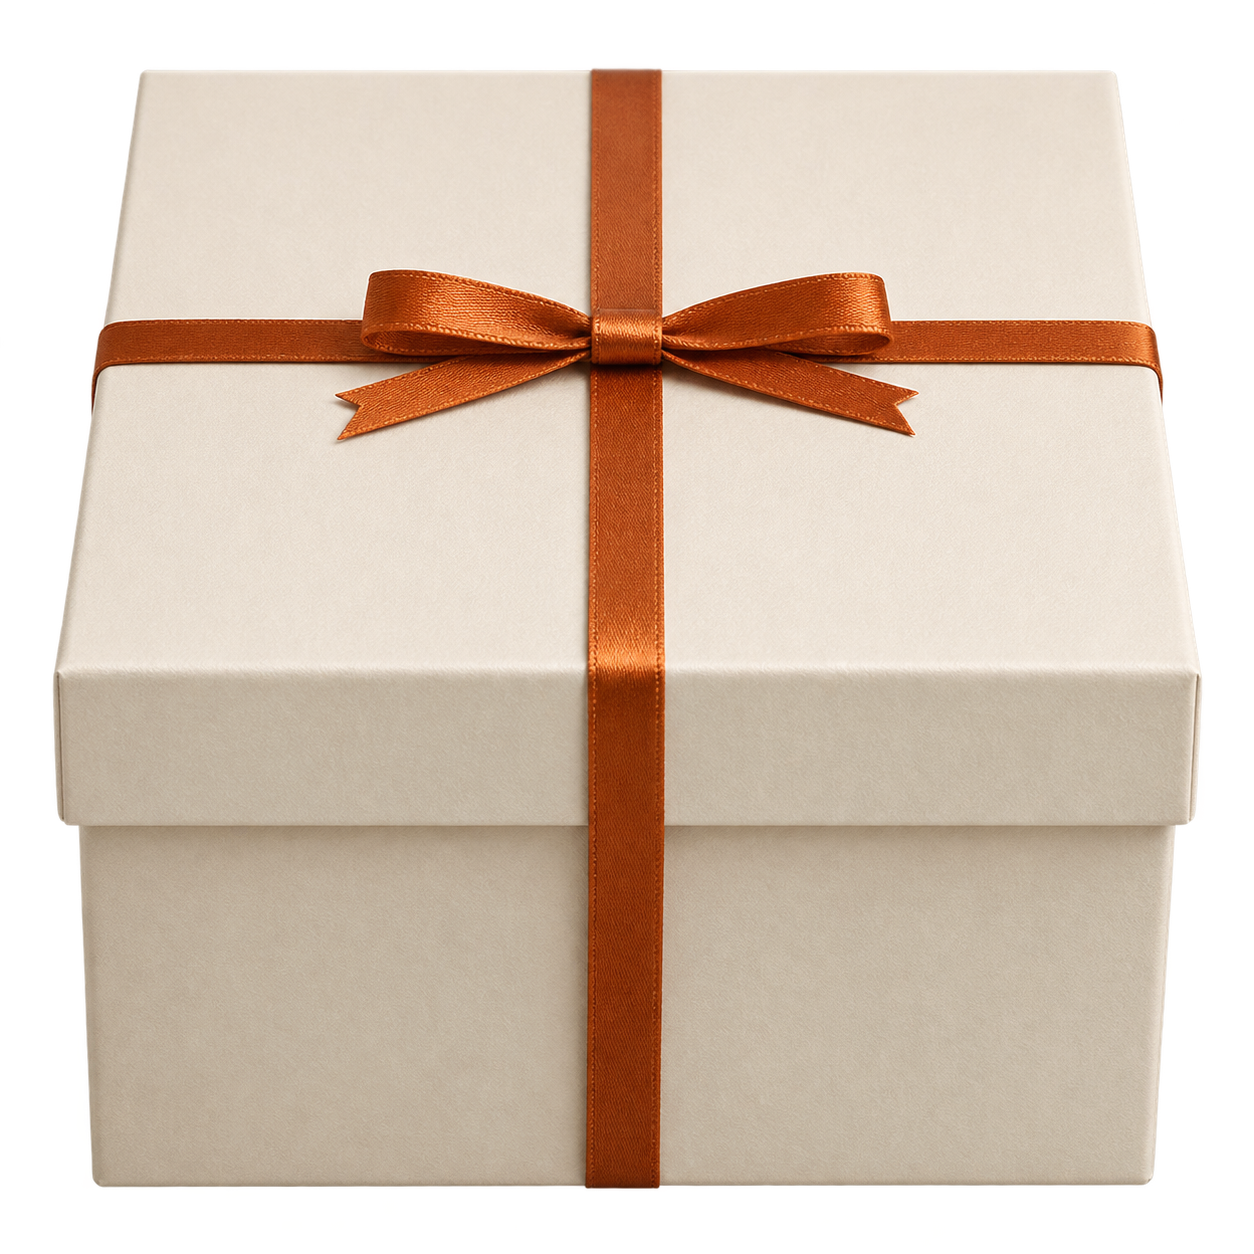
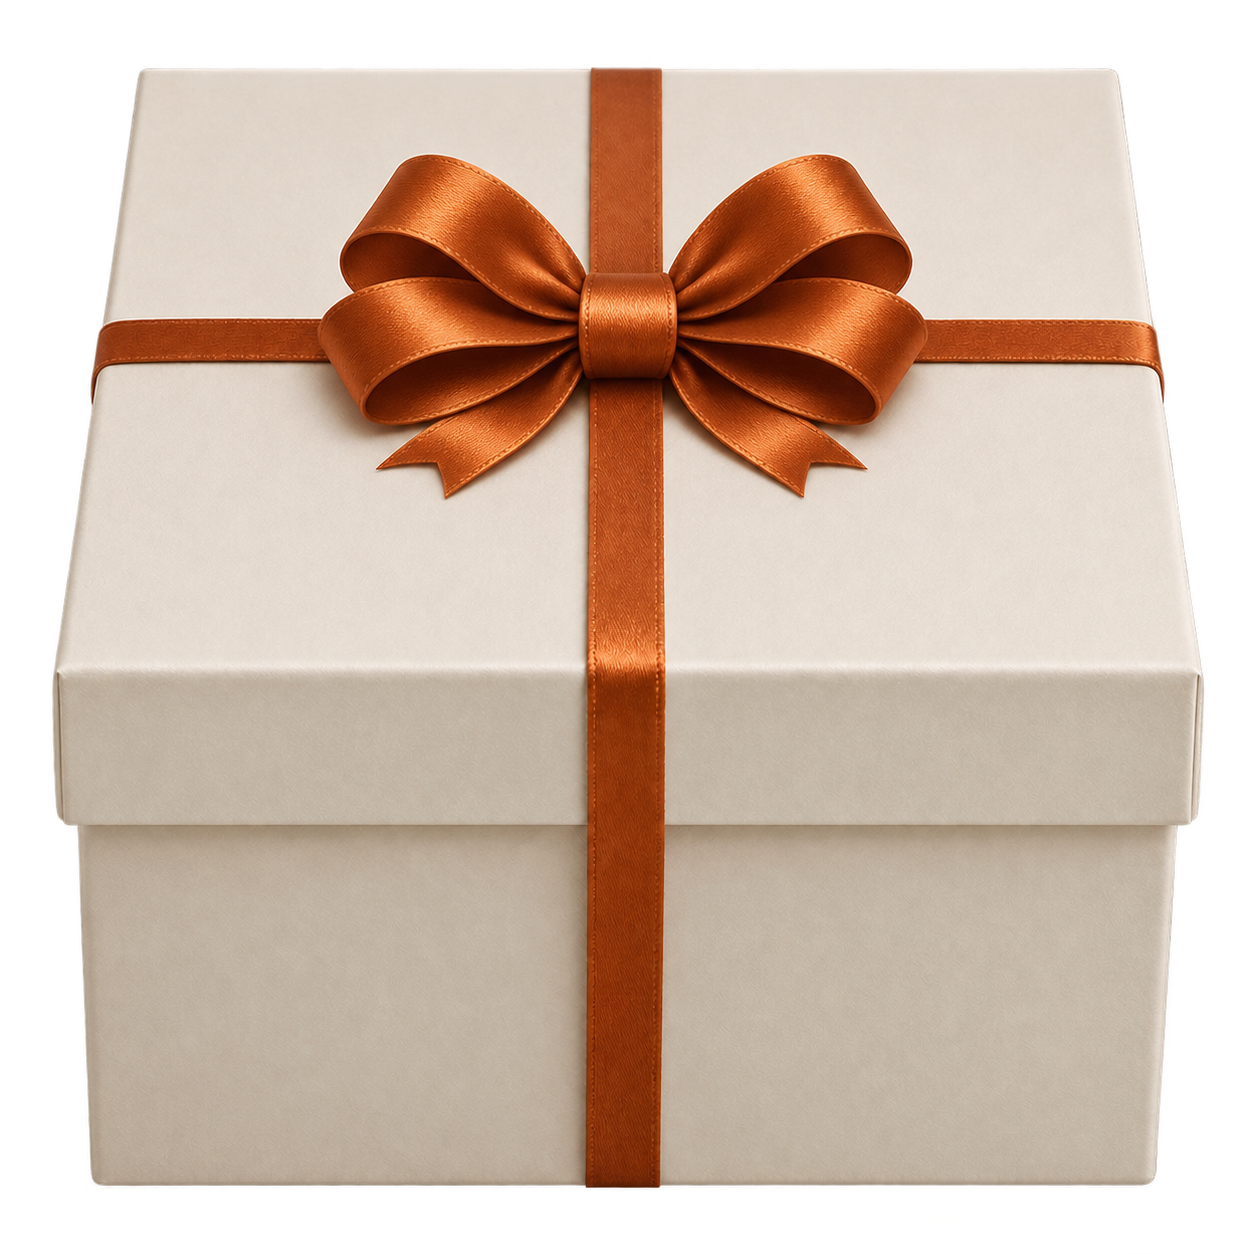
Update coin and ribbon assets and align gift box perspective

diff --git a/app/page.tsx b/app/page.tsx
@@ -84,7 +84,7 @@ export default function Home(){
  const art=(p:typeof products[number])=>({backgroundImage:`url("${encodeURI(p.image)}")`,backgroundSize:'contain',backgroundPosition:'center',backgroundRepeat:'no-repeat'});
  return <div className="storefront">
  <div className="site-window">
- <header className={`market-header${scrolled?' scrolled':''}`}><nav aria-label="마켓 메뉴"><a href="#goods">MEMORIES</a><button onClick={()=>setPanel('letter')}>LETTER</button></nav><a href="#" className="market-brand" aria-label="싱귤 마켓 처음으로">SINGGYUL<small>MARKET</small></a><div className="header-actions"><span className="balance">남은 귤 <strong>{BUDGET-used}</strong></span><button className="bag" onClick={()=>setPanel('cart')} aria-label={`장바구니 ${count}개`}><ShoppingBag size={26}/>{count>0&&<b>{count}</b>}</button></div></header>
+ <header className={`market-header${scrolled?' scrolled':''}`}><nav aria-label="마켓 메뉴"><a href="#goods">MEMORIES</a><button onClick={()=>setPanel('letter')}>LETTER</button></nav><a href="#" className="market-brand" aria-label="싱귤 마켓 처음으로">SINGGYUL<small>MARKET</small></a><div className="header-actions"><span className="balance"><img className="balance-coin" src="/assets/gift-guide/refined/coin.png" alt="" width="28" height="28"/>남은 귤 <strong>{BUDGET-used}</strong></span><button className="bag" onClick={()=>setPanel('cart')} aria-label={`장바구니 ${count}개`}><ShoppingBag size={26}/>{count>0&&<b>{count}</b>}</button></div></header>
  <main className="market-main"><LandingHero/><GiftGuide/>
  <section id="goods" className="goods"><div className="section-heading"><h2>MEMORIES</h2></div><p className="goods-disclaimer">이미지는 연출된 예시이며 실제 상품 사진이 아닙니다. 모든 굿즈는 마음을 전하는 가상 선물로, 실물이 제공되거나 배송되지 않습니다.</p><div className="filters" aria-label="굿즈 카테고리">{['전체','게임','노래','콘텐츠'].map(c=><button key={c} onClick={()=>selectCategory(c)} aria-pressed={category===c} className={category===c?'selected':''}>{c}</button>)}</div>
  <div className="product-grid">{visibleProducts.map(p=><article className="product" key={p.id}><div className="product-image" style={art(p)}>{!!cart[p.id]&&<span className="in-cart"><Check size={12}/> {cart[p.id]}개 담김</span>}</div><div className="product-info"><div><h3>{p.name}</h3><p className="product-price">{p.price}귤</p></div><div className="goods-controls">{!!cart[p.id]&&<><button className="goods-remove" onClick={()=>remove(p.id)} aria-label={`${p.name} 한 개 빼기`}><Minus size={17}/></button><span className="goods-quantity" aria-live="polite">{cart[p.id]}</span></>}<button disabled={!ready||used+p.price>BUDGET} className="goods-add" onClick={()=>add(p.id)} aria-label={`${p.name} ${p.price}귤 담기`}><Plus size={17}/>{!cart[p.id]&&<span>담기</span>}</button></div></div></article>)}</div></section>

diff --git a/lib/gift-motion.js b/lib/gift-motion.js
@@ -129,6 +129,15 @@ export function initGiftMotion(story, stage) {
     const openW = baseW * .939;
     const openH = openW * .99;
     const boxY = foot - openH/2;
+    const lid = images['box-closed'];
+    const lidW = openW * .99;
+    const lidTopH = lid.naturalWidth
+      ? lidW * (lid.naturalHeight * .495) / (lid.naturalWidth * .95)
+      : openW * .516;
+    // The opening and lid share one projected depth. The opening is slightly
+    // smaller than the lid, whose edges overhang the body.
+    const openingDepth = lidTopH * .95;
+    const rimY = boxY - openH * .095;
     const mouthY = foot - openH * .64;
     const bodyShow = ease(p,.485,.538);
 
@@ -142,7 +151,13 @@ export function initGiftMotion(story, stage) {
       if (!box.naturalWidth) return;
       ctx.save();
       ctx.globalAlpha = openAlpha;
-      ctx.drawImage(box, cx-openW/2, boxY-openH/2, openW, openH);
+      const split = .405;
+      const backEdge = .073;
+      const interiorH = openingDepth * split / (split - backEdge);
+      ctx.drawImage(box, 0, 0, box.naturalWidth, box.naturalHeight * split,
+        cx-openW/2, rimY-interiorH, openW, interiorH);
+      ctx.drawImage(box, 0, box.naturalHeight * split, box.naturalWidth, box.naturalHeight * (1-split),
+        cx-openW/2, rimY, openW, openH * (1-split));
       ctx.restore();
     };
     drawBox();
@@ -194,18 +209,18 @@ export function initGiftMotion(story, stage) {
     // Keep the open box body for the entire sequence. Only its matching-size
     // lid moves; never replace or fade the body into a different closed box.
     const down = ease(p,.705,.80);
-    const lid = images['box-closed'];
     if (p > .68 && lid.naturalWidth) {
-      const lidW = openW * .99;
-      const topH = openH * .315;
+      // Preserve the lid crop's aspect ratio so the bow isn't flattened.
+      const topH = lidTopH;
       const rimH = openH * .15;
-      const seatedY = boxY - openH * .435;
+      // Anchor the front edge to the same rim while extending the top upward.
+      const seatedY = boxY - openH * .12 - topH;
       const travel = (1-down) * height;
       ctx.drawImage(lid,
         lid.naturalWidth * .025, lid.naturalHeight * .045,
         lid.naturalWidth * .95, lid.naturalHeight * .495,
         cx - lidW/2, seatedY - travel, lidW, topH);
-      // Keep the top unchanged; deepen only the front skirt over the body.
+      // Keep the front skirt seated over the body throughout the descent.
       ctx.drawImage(lid,
         lid.naturalWidth * .025, lid.naturalHeight * .54,
         lid.naturalWidth * .95, lid.naturalHeight * .12,

diff --git a/app/storefront.css b/app/storefront.css
@@ -66,6 +66,7 @@
 .storefront .header-actions { justify-self: end; gap: 22px; }
 .storefront .balance { background: none; color: inherit; border-radius: 0; padding: 0; gap: 7px; font-size: 11px; }
 .storefront .balance strong { font-size: 14px; font-weight: 500; }
+.balance-coin { width: 28px; height: 28px; object-fit: contain; flex-shrink: 0; }
 .storefront .bag { color: inherit; }
 .storefront .bag b { background: #e76b29; }
 .storefront main.market-main { max-width: none; margin: 0; }
@@ -160,7 +161,8 @@
   .storefront .market-header nav { flex-direction: column; align-items: start; gap: 3px; font-size: 10px; }
   .storefront .market-header nav button { padding: 5px 0; }
   .storefront .header-actions { flex-direction: row; gap: 7px; margin: 0; }
-  .storefront .balance { flex-direction: column; gap: 1px; font-size: 8px; }
+  .storefront .balance { position: relative; padding-left: 25px; flex-direction: column; gap: 1px; font-size: 8px; }
+  .storefront .balance-coin { position: absolute; left: 0; top: 50%; transform: translateY(-50%); width: 23px; height: 23px; }
   .storefront .balance strong { font-size: 12px; }
   .storefront .bag svg { width: 21px; }
   .landing-hero { min-height: 500px; }
